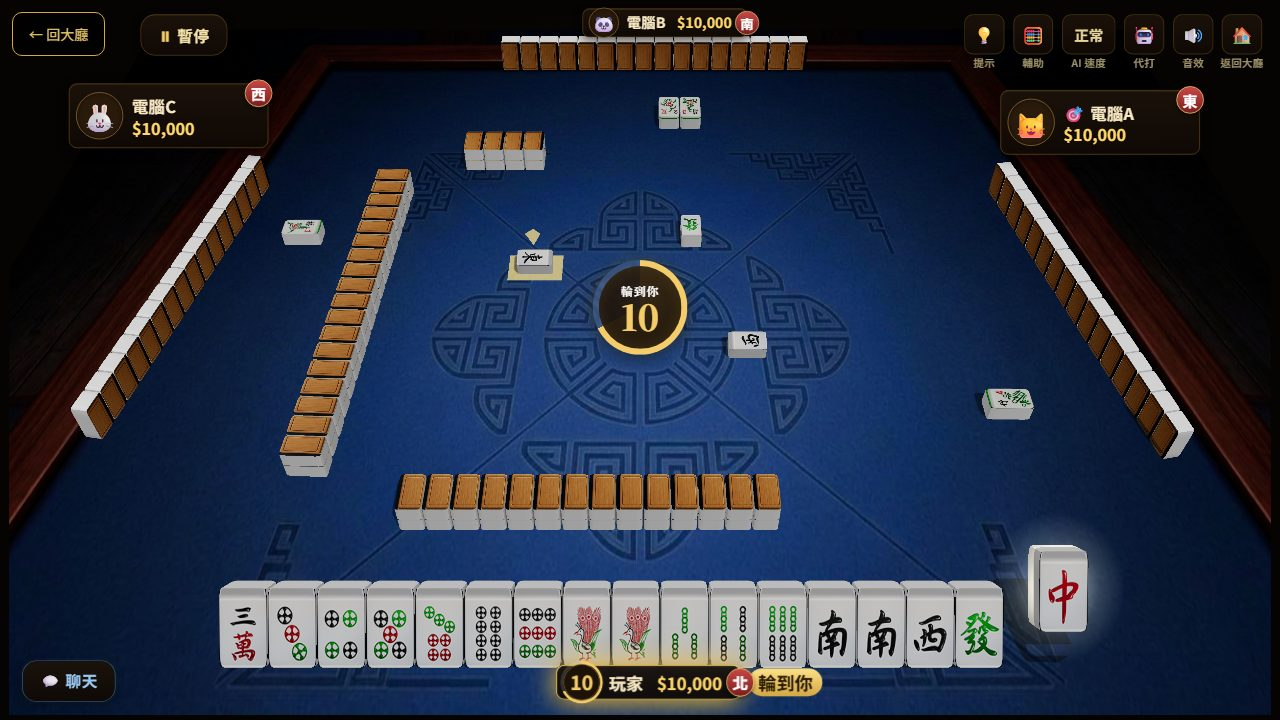
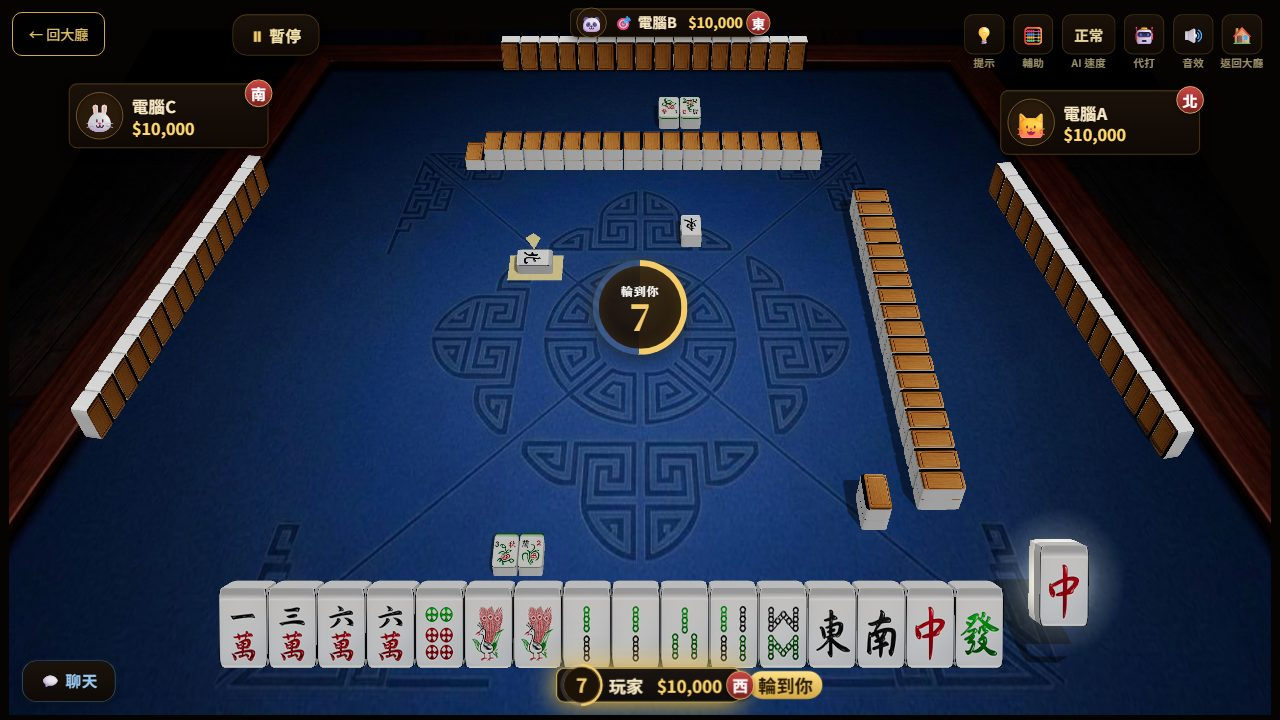
fix: 麻將與騙子酒吧避開平台「← 回大廳」按鈕
- 麻將：嵌在大廳 iframe 時加 in-arcade，首頁標題下移、對局暫停鈕右移；單獨開啟不受影響
- 騙子酒吧：招牌移到返回鈕右側，不再壓到上方座位；窄螢幕隱藏裝飾招牌
- README 截圖重拍（麻將、騙子酒吧）

diff --git a/games/mahjong/mahjong-3d.html b/games/mahjong/mahjong-3d.html
@@ -486,6 +486,10 @@ body::before {
 #hud-pp3 { left:120px;  top:429px;  transform: translate(-50%, -50%); }   /* 左家左中央 */
 .pp.west .av { width:32px; height:32px; font-size:18px; }
 
+/* 嵌在牌桌遊戲廳（iframe）時：避開平台左上「← 回大廳」按鈕（12~107px） */
+html.in-arcade #lobby .lcard { padding-top: 72px; }
+html.in-arcade .pause-fab { left: 340px; }
+
 /* ── 左上獨立暫停浮動按鈕 ── */
 .pause-fab {
   position:absolute; left:200px; top:14px; z-index:50;
@@ -10734,8 +10738,9 @@ async function init() {
   // 房主誤關視窗：有連線房主存檔 → 顯示「繼續上局」以恢復房間（單機存檔維持原行為不顯示）
   try { if (Game.loadSave()?.net) document.getElementById('resume-bar').style.display='block'; } catch(e) {}
 
-  // 平台大廳「連線」進場 ?online=1 → 直接開連線對戰畫面
+  // 平台大廳「連線」進場 ?online=1 → 直接開連線對戰畫面；嵌在大廳 iframe 內時加 in-arcade（避開平台「← 回大廳」鈕）
   try {
+    if (window.self !== window.top) document.documentElement.classList.add('in-arcade');
     if (new URLSearchParams(location.search).get('online') === '1') Lobby.showOnline();
   } catch (e) {}
   // 邀請連結 ?room&host → 自動切到「加入」畫面並帶入連結（模組為 deferred，DOM 已就緒）

diff --git a/games/liarsbar/liarsbar.css b/games/liarsbar/liarsbar.css
@@ -18,7 +18,7 @@
 .lb-lamp::after { content: ''; position: absolute; top: 0; left: 50%; transform: translateX(-50%);
   width: 16px; height: 16px; border-radius: 50%; background: radial-gradient(circle at 40% 35%, #fff2cf, #e8a23c);
   box-shadow: 0 0 26px 8px rgba(243,195,114,.7); }
-.lb-sign { position: absolute; top: 26px; left: 50%; transform: translateX(-50%); z-index: 4;
+.lb-sign { position: absolute; top: 20px; left: 124px; z-index: 4; /* 放在「← 回大廳」右側，避開正上方座位 */
   font-family: 'Rye', serif; font-size: 22px; letter-spacing: .14em; color: var(--amber-2);
   text-shadow: 0 1px 0 #000, 0 0 18px rgba(232,162,60,.5); opacity: .9; }
 
@@ -125,6 +125,7 @@
   .lb-table::before { width: 94vw; height: 50vh; }
   .lb-seat { width: 102px; padding: 6px; }
   .lb-log { display: none; }
+  .lb-sign { display: none; } /* 窄螢幕放不下，裝飾性招牌省略 */
   .lb-center { width: 86vw; }
   .lb-tablecard { zoom: 1; }
   .lb-self { bottom: 8px; padding: 8px 12px; }
